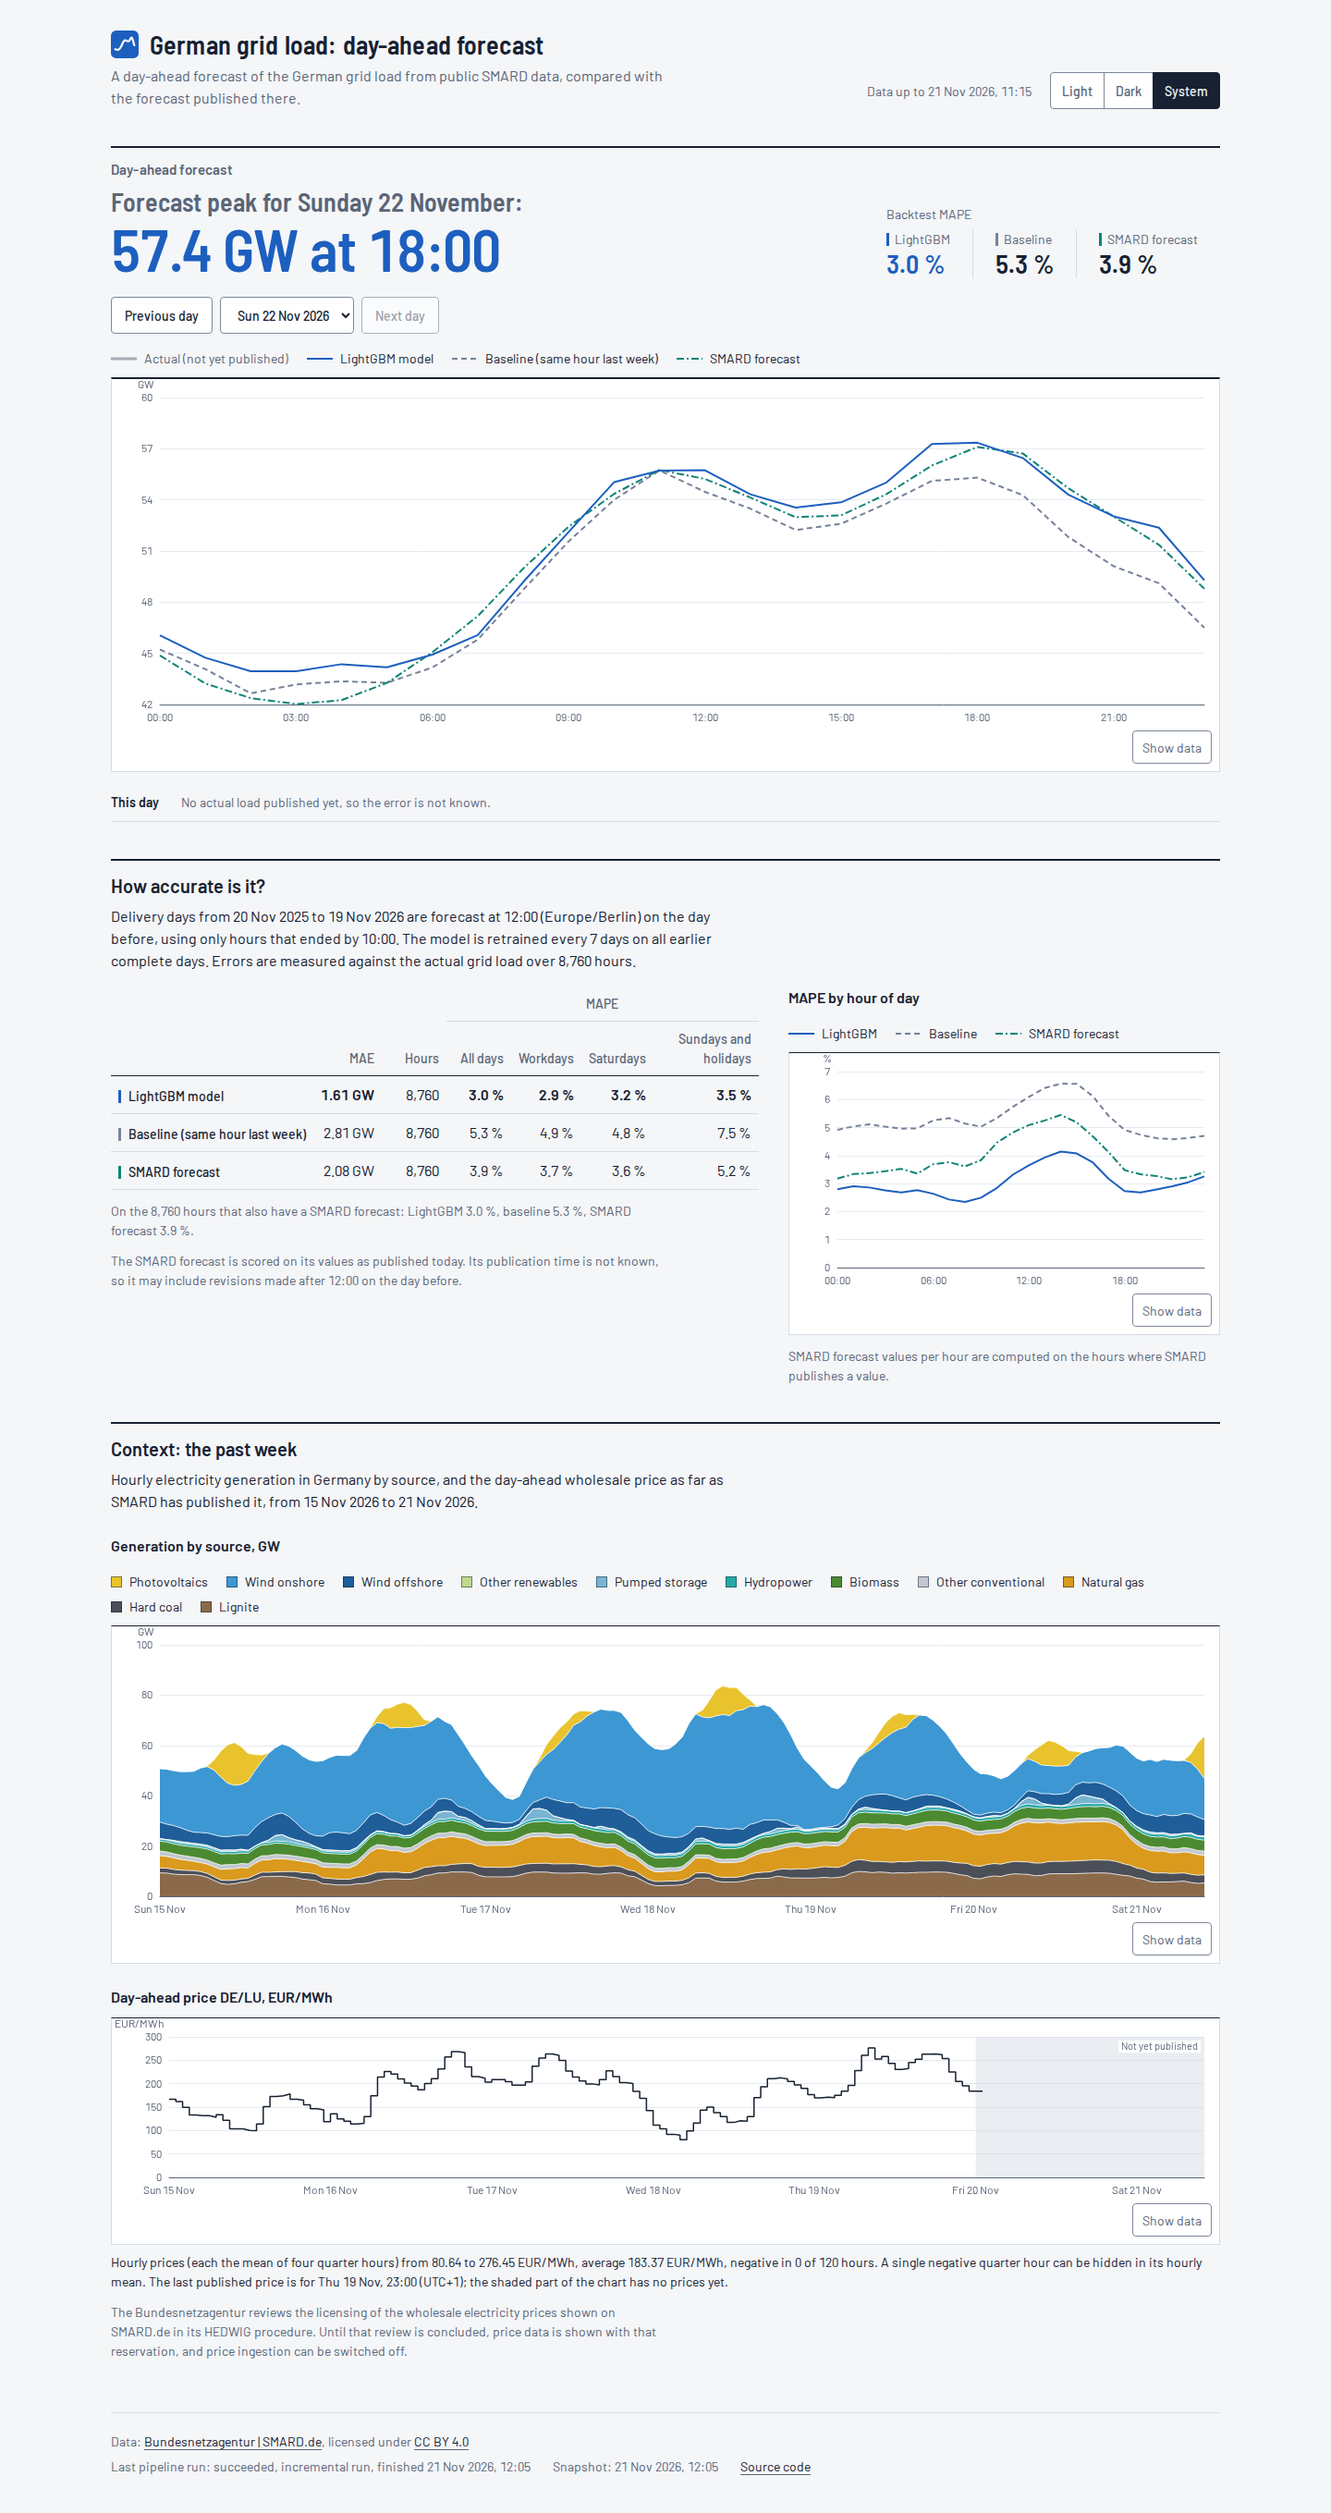
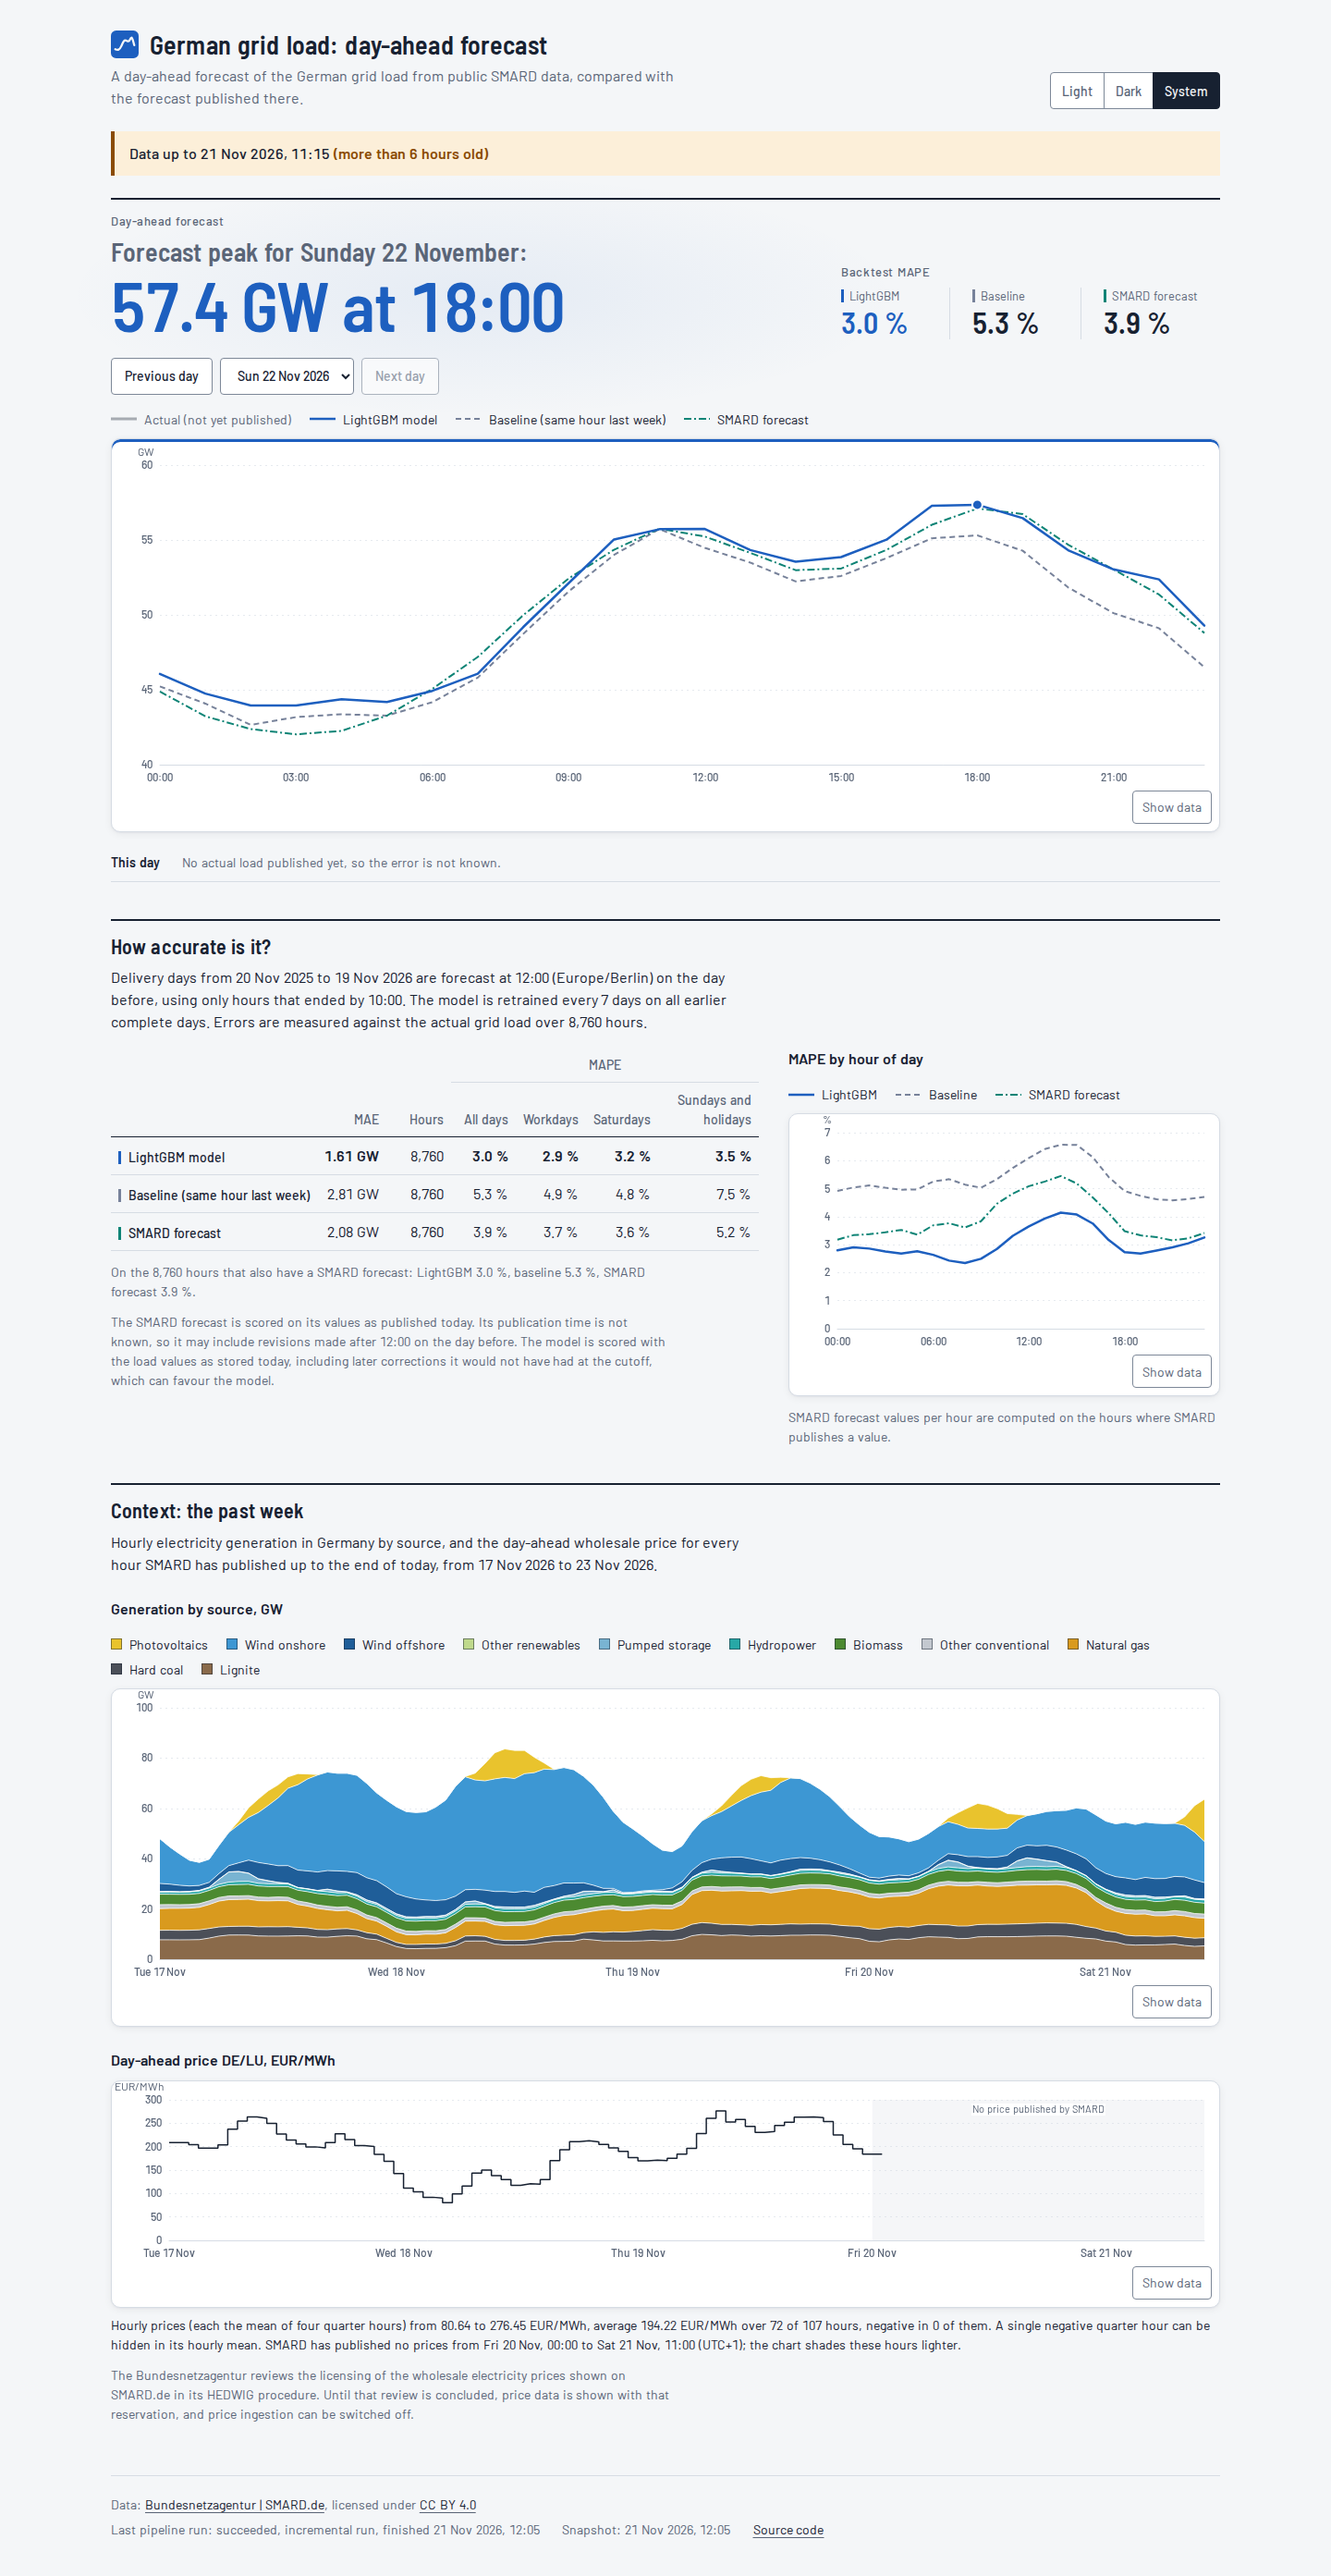
Update the dashboard screenshot and the cross-check description

diff --git a/docs/reference/cli.md b/docs/reference/cli.md
@@ -18,7 +18,7 @@ All commands that write need exclusive access to the warehouse. While the hourly
 | Script | Purpose |
 |---|---|
 | `scripts/backtest.py [--days N] [--last-day YYYY-MM-DD]` | Backtest on the local warehouse, writes `reports/backtest.json` and `reports/backtest.md` with a fingerprint of the input data |
-| `scripts/crosscheck_metrics.py` | Recomputes every reported metric with scikit-learn in a separate environment |
+| `scripts/crosscheck_metrics.py` | Recomputes MAE and MAPE of the backtest report with scikit-learn in a separate environment, and the error distribution with the standard library |
 | `scripts/record_fixtures.py` | Records the SMARD responses used as test fixtures |
 | `scripts/smoke.py` | Live check against SMARD (`make smoke`) |
 | `scripts/loadtest.py` | Load test against an isolated stack (`make loadtest`) |
